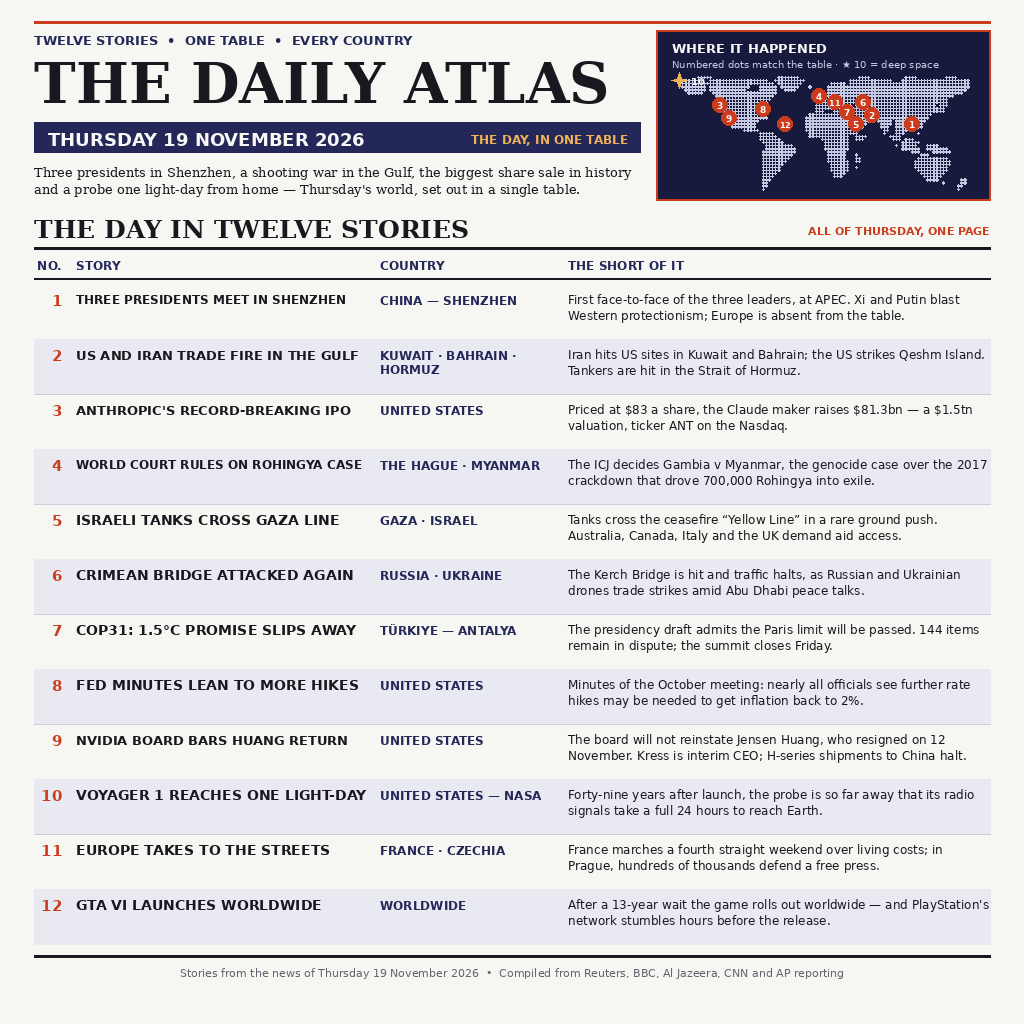
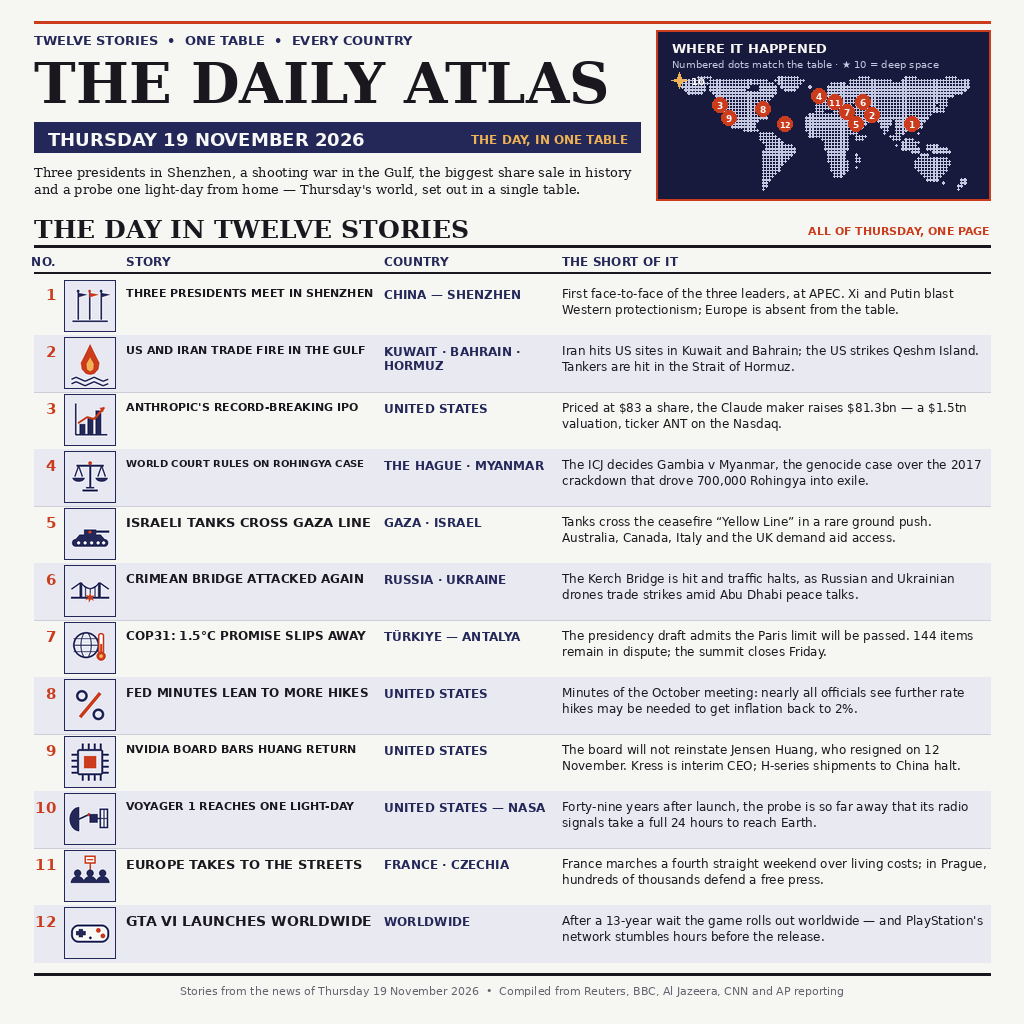
Add a pictogram illustration to every table row
Each of the twelve stories now carries a small flat duotone glyph
(indigo + vermilion, drawn with PIL at 4x and downscaled) in its own
column between the row number and the headline: flags, flame over
waves, IPO chart, scales of justice, tank, bridge with a burst,
globe and thermometer, per cent, chip, satellite, protest crowd and
game controller. Table geometry widened/shifted to fit the icon
column; all text, the map panel and the masthead are unchanged.

Changed region(s): [[0.0312, 0.2188, 0.9688, 0.9688], [0.5312, 0.3438, 0.9688, 0.5312], [0.375, 0.4375, 0.5312, 0.4688]]

diff --git a/render.py b/render.py
@@ -8,7 +8,8 @@ every run produces the same picture. The committed ``entry.png`` is what
 anyone can see exactly how the picture was made and rebuild it.
 
 The page is built around one big table: twelve stories of Thursday
-19 November 2026, each with its country and a two-line summary. A
+19 November 2026, each with a small pictogram drawn in the page's
+indigo-and-vermilion style, its country and a two-line summary. A
 schematic dot map of the world in the masthead band numbers the places
 to match the table's rows. The twelve stories:
 
@@ -217,15 +218,176 @@ STORIES = [
      "PlayStation's network stumbles hours before the release."),
 ]
 
+# ---------- row pictograms ----------
+# One flat duotone glyph per story, drawn with PIL shapes on a 4x canvas
+# and downscaled, so every row of the table carries a small illustration
+# in the page's own indigo + vermilion (amber only inside the flame).
+SS = 4
+TILE = 52            # pictogram tile size (drawn at 4x, downscaled)
+TILE_BG = (231, 232, 242)
+
+
+def icon_flags(d):
+    # 1 — three presidents meet: three flags on poles
+    for x, c in ((56, INDIGO), (102, VERMILION), (148, INDIGO)):
+        d.line([(x, 48), (x, 158)], fill=INDIGO, width=6)
+        d.ellipse([x - 5, 39, x + 5, 49], fill=c)
+        d.polygon([(x, 51), (x + 36, 58), (x, 69)], fill=c)
+    d.line([(34, 164), (174, 164)], fill=INDIGO, width=6)
+
+
+def icon_flame(d):
+    # 2 — fire traded in the Gulf: a flame over waves
+    d.polygon([(104, 28), (127, 76), (141, 103), (137, 129), (120, 147),
+               (104, 151), (88, 147), (71, 129), (67, 103), (81, 76)],
+              fill=VERMILION)
+    d.polygon([(104, 82), (118, 107), (116, 129), (104, 137), (92, 129),
+               (90, 107)], fill=AMBER)
+    wave = [(30, 168), (48, 160), (66, 168), (84, 176), (102, 168),
+            (120, 160), (138, 168), (156, 176), (176, 168)]
+    d.line(wave, fill=INDIGO, width=6)
+    wave2 = [(x, y + 18) for x, y in wave]
+    d.line(wave2, fill=INDIGO, width=6)
+
+
+def icon_chart(d):
+    # 3 — a record-breaking IPO: bars and a rising arrow
+    d.line([(46, 38), (46, 162)], fill=INDIGO, width=6)
+    d.line([(46, 162), (172, 162)], fill=INDIGO, width=6)
+    for x, h in ((62, 42), (94, 68), (126, 96)):
+        d.rectangle([x, 162 - h, x + 22, 162], fill=INDIGO)
+    d.line([(56, 116), (92, 92), (120, 100), (160, 54)], fill=VERMILION, width=9)
+    d.polygon([(162, 52), (142, 55), (155, 72)], fill=VERMILION)
+
+
+def icon_scales(d):
+    # 4 — the World Court: scales of justice
+    d.line([(50, 58), (158, 58)], fill=INDIGO, width=8)
+    d.line([(104, 50), (104, 146)], fill=INDIGO, width=8)
+    d.ellipse([97, 41, 111, 55], fill=VERMILION)
+    for cx in (58, 150):
+        d.line([(cx, 58), (cx - 15, 102)], fill=INDIGO, width=5)
+        d.line([(cx, 58), (cx + 15, 102)], fill=INDIGO, width=5)
+        d.pieslice([cx - 24, 92, cx + 24, 122], 0, 180, fill=INDIGO)
+    d.line([(88, 146), (120, 146)], fill=INDIGO, width=6)
+    d.line([(74, 157), (134, 157)], fill=INDIGO, width=8)
+
+
+def icon_tank(d):
+    # 5 — tanks cross the line: a tank silhouette
+    d.rounded_rectangle([32, 124, 176, 154], 14, fill=INDIGO)
+    d.polygon([(46, 124), (62, 106), (146, 106), (162, 124)], fill=INDIGO)
+    d.rectangle([80, 86, 128, 106], fill=INDIGO)
+    d.line([(126, 94), (180, 94)], fill=INDIGO, width=9)
+    d.ellipse([97, 90, 109, 102], fill=VERMILION)
+    for cx in (58, 84, 110, 136, 158):
+        d.ellipse([cx - 6, 133, cx + 6, 145], fill=PAPER)
+
+
+def icon_bridge(d):
+    # 6 — the Crimean Bridge: towers, cable, a burst in the deck
+    d.line([(30, 96), (67, 70), (80, 84), (92, 91), (104, 94), (116, 91),
+            (128, 84), (141, 70), (178, 96)], fill=INDIGO, width=6)
+    d.rectangle([62, 70, 72, 130], fill=INDIGO)
+    d.rectangle([136, 70, 146, 130], fill=INDIGO)
+    for x, y in ((85, 87), (104, 94), (123, 87)):
+        d.line([(x, y), (x, 128)], fill=INDIGO, width=4)
+    d.line([(28, 130), (94, 130)], fill=INDIGO, width=8)
+    d.line([(114, 130), (180, 130)], fill=INDIGO, width=8)
+    d.polygon([(104, 110), (108, 123), (121, 121), (111, 131), (119, 142),
+               (106, 137), (100, 149), (98, 135), (85, 140), (95, 130),
+               (87, 119), (100, 123)], fill=VERMILION)
+
+
+def icon_globe_thermo(d):
+    # 7 — COP31: a globe with a thermometer against it
+    d.ellipse([36, 40, 140, 144], outline=INDIGO, width=7)
+    d.ellipse([66, 40, 110, 144], outline=INDIGO, width=4)
+    d.line([(38, 66), (138, 66)], fill=INDIGO, width=3)
+    d.line([(36, 92), (140, 92)], fill=INDIGO, width=4)
+    d.line([(38, 118), (138, 118)], fill=INDIGO, width=3)
+    d.rounded_rectangle([136, 44, 160, 128], 10, fill=WHITE,
+                        outline=VERMILION, width=6)
+    d.rectangle([144, 88, 152, 126], fill=VERMILION)
+    d.ellipse([130, 118, 166, 154], fill=VERMILION)
+    d.ellipse([141, 129, 155, 143], fill=AMBER)
+
+
+def icon_percent(d):
+    # 8 — the Fed leans to hikes: a bold per cent
+    d.line([(64, 152), (144, 56)], fill=VERMILION, width=13)
+    d.ellipse([48, 44, 94, 90], outline=INDIGO, width=10)
+    d.ellipse([114, 118, 160, 164], outline=INDIGO, width=10)
+
+
+def icon_chip(d):
+    # 9 — Nvidia: a computer chip
+    for x in (74, 98, 122, 146):
+        d.line([(x, 30), (x, 52)], fill=INDIGO, width=8)
+        d.line([(x, 156), (x, 178)], fill=INDIGO, width=8)
+    for y in (74, 98, 122, 146):
+        d.line([(30, y), (52, y)], fill=INDIGO, width=8)
+        d.line([(156, y), (178, y)], fill=INDIGO, width=8)
+    d.rounded_rectangle([52, 52, 156, 156], 10, outline=INDIGO, width=8)
+    d.rectangle([80, 80, 128, 128], fill=VERMILION)
+
+
+def icon_satellite(d):
+    # 10 — Voyager: a probe with dish and solar panel
+    d.pieslice([22, 56, 98, 152], 90, 270, fill=INDIGO)
+    d.line([(60, 104), (98, 86)], fill=INDIGO, width=7)
+    d.ellipse([93, 80, 105, 92], fill=VERMILION)
+    d.rectangle([102, 84, 134, 118], fill=INDIGO)
+    d.line([(134, 101), (142, 101)], fill=INDIGO, width=6)
+    d.rectangle([142, 62, 176, 140], outline=INDIGO, width=6)
+    d.line([(142, 101), (176, 101)], fill=INDIGO, width=4)
+    d.line([(159, 62), (159, 140)], fill=INDIGO, width=4)
+
+
+def icon_crowd(d):
+    # 11 — Europe marches: a crowd, one placard raised
+    d.rectangle([82, 22, 126, 54], fill=WHITE, outline=VERMILION, width=6)
+    d.line([(92, 38), (116, 38)], fill=VERMILION, width=5)
+    d.line([(104, 54), (104, 78)], fill=VERMILION, width=6)
+    for cx in (54, 104, 154):
+        d.ellipse([cx - 14, 78, cx + 14, 106], fill=INDIGO)
+        d.pieslice([cx - 27, 104, cx + 27, 158], 180, 360, fill=INDIGO)
+
+
+def icon_controller(d):
+    # 12 — GTA VI: a game controller
+    d.rounded_rectangle([28, 70, 180, 142], 30, fill=WHITE,
+                        outline=INDIGO, width=8)
+    d.rectangle([59, 88, 75, 120], fill=INDIGO)
+    d.rectangle([48, 96, 86, 112], fill=INDIGO)
+    d.ellipse([128, 84, 146, 102], fill=VERMILION)
+    d.ellipse([146, 106, 164, 124], fill=VERMILION)
+    d.ellipse([100, 118, 110, 128], fill=INDIGO)
+
+
+ICON_FUNCS = [icon_flags, icon_flame, icon_chart, icon_scales, icon_tank,
+              icon_bridge, icon_globe_thermo, icon_percent, icon_chip,
+              icon_satellite, icon_crowd, icon_controller]
+
+
+def make_tile(fn):
+    t = Image.new("RGB", (TILE * SS, TILE * SS), TILE_BG)
+    fn(ImageDraw.Draw(t))
+    return t.resize((TILE, TILE), Image.LANCZOS)
+
+
+ICON_TILES = [make_tile(f) for f in ICON_FUNCS]
+
 # Table geometry.
-COL_NO_R = 62        # right edge of the NO. column
-COL_STORY = 76       # STORY column left edge
-COL_STORY_W = 292
-COL_COUNTRY = 380    # COUNTRY column left edge
-COL_COUNTRY_W = 176
-COL_SUMMARY = 568    # SUMMARY column left edge
+COL_NO_R = 56        # right edge of the NO. column
+COL_ICON = 64        # ICON column left edge (pictogram tile)
+COL_STORY = 126      # STORY column left edge
+COL_STORY_W = 248
+COL_COUNTRY = 384    # COUNTRY column left edge
+COL_COUNTRY_W = 162
+COL_SUMMARY = 562    # SUMMARY column left edge
 COL_SUMMARY_W = W - M - COL_SUMMARY
-ROW_H = 55
+ROW_H = 57
 
 
 def main():
@@ -288,27 +450,32 @@ def main():
     right = "ALL OF THURSDAY, ONE PAGE"
     rf = font(SANS_BOLD, 11)
     d.text((W - M - text_w(d, right, rf), 224), right, font=rf, fill=VERMILION)
-    d.line([(M, 248), (W - M, 248)], fill=INK, width=3)
+    d.line([(M, 246), (W - M, 246)], fill=INK, width=3)
 
     # ---------- table header ----------
     hf = font(SANS_BOLD, 12)
-    d.text((COL_NO_R - text_w(d, "NO.", hf), 258), "NO.", font=hf, fill=INDIGO)
-    d.text((COL_STORY, 258), "STORY", font=hf, fill=INDIGO)
-    d.text((COL_COUNTRY, 258), "COUNTRY", font=hf, fill=INDIGO)
-    d.text((COL_SUMMARY, 258), "THE SHORT OF IT", font=hf, fill=INDIGO)
-    d.line([(M, 278), (W - M, 278)], fill=INK, width=2)
+    d.text((COL_NO_R - text_w(d, "NO.", hf), 254), "NO.", font=hf, fill=INDIGO)
+    d.text((COL_STORY, 254), "STORY", font=hf, fill=INDIGO)
+    d.text((COL_COUNTRY, 254), "COUNTRY", font=hf, fill=INDIGO)
+    d.text((COL_SUMMARY, 254), "THE SHORT OF IT", font=hf, fill=INDIGO)
+    d.line([(M, 272), (W - M, 272)], fill=INK, width=2)
 
     # ---------- table rows ----------
     nf = font(SANS_BOLD, 15)
     sf = font(SANS, 12)
     cf = font(SANS_BOLD, 12)
-    top = 284
+    top = 278
     for i, (no, head, country, summary) in enumerate(STORIES):
         ry = top + i * ROW_H
         if i % 2 == 1:
             d.rectangle([M, ry, W - M, ry + ROW_H], fill=ROW_ALT)
         # number, right-aligned
         d.text((COL_NO_R - text_w(d, no, nf), ry + 8), no, font=nf, fill=VERMILION)
+        # pictogram tile for this story
+        ty = ry + (ROW_H - TILE) // 2
+        img.paste(ICON_TILES[i], (COL_ICON, ty))
+        d.rectangle([COL_ICON, ty, COL_ICON + TILE - 1, ty + TILE - 1],
+                    outline=INDIGO, width=1)
         # headline, shrunk only if it would overflow its column
         hf2 = fit_font(d, head, SANS_BOLD, 14, COL_STORY_W)
         d.text((COL_STORY, ry + 8), head, font=hf2, fill=INK)
